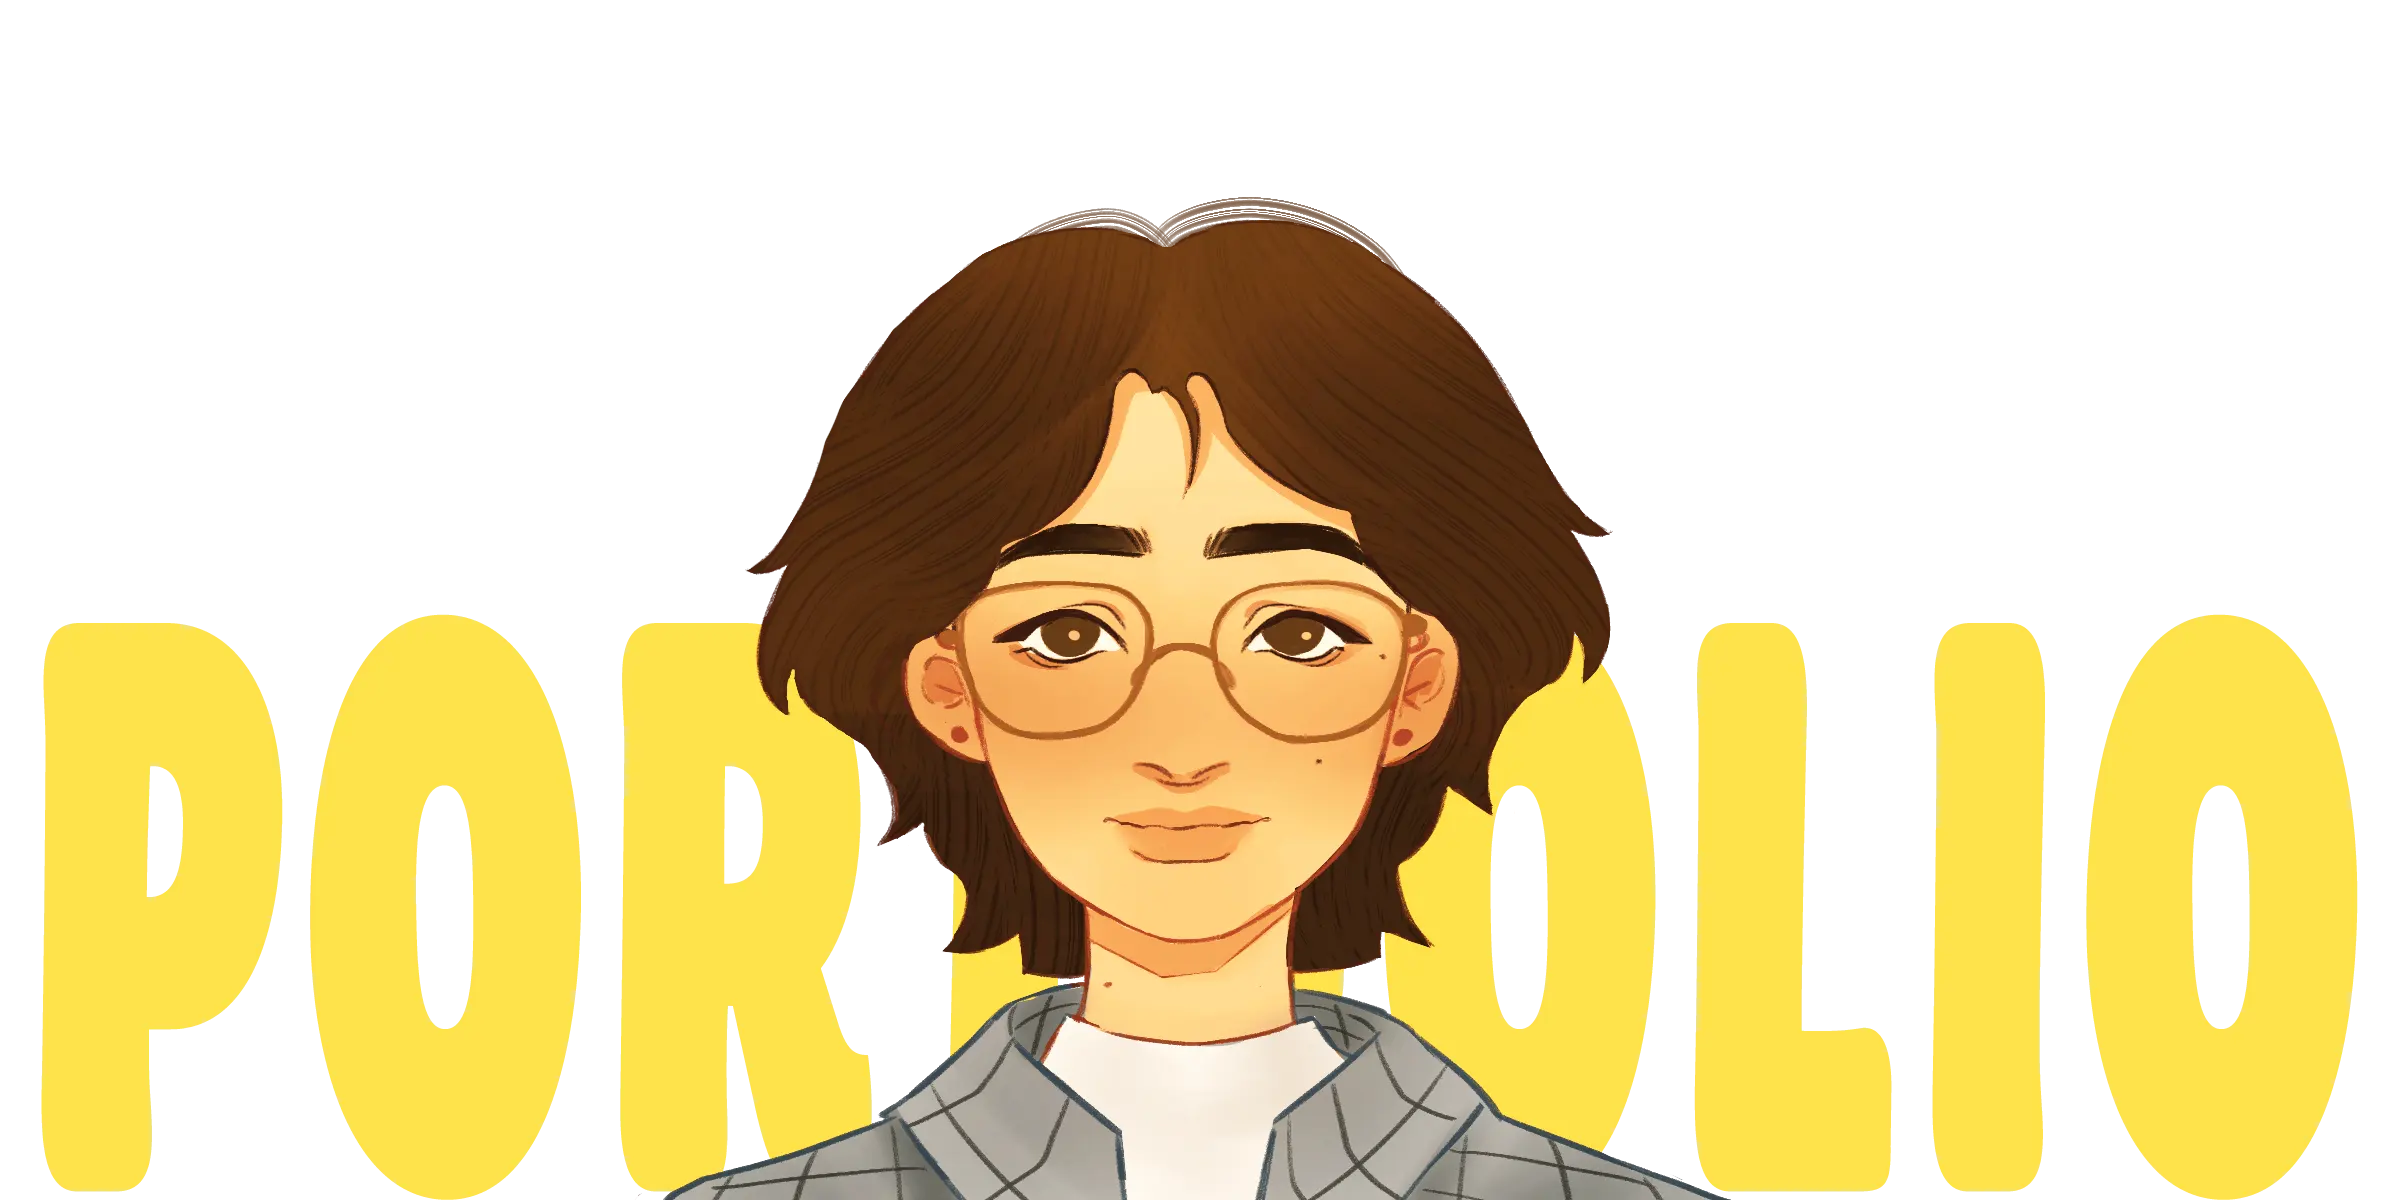
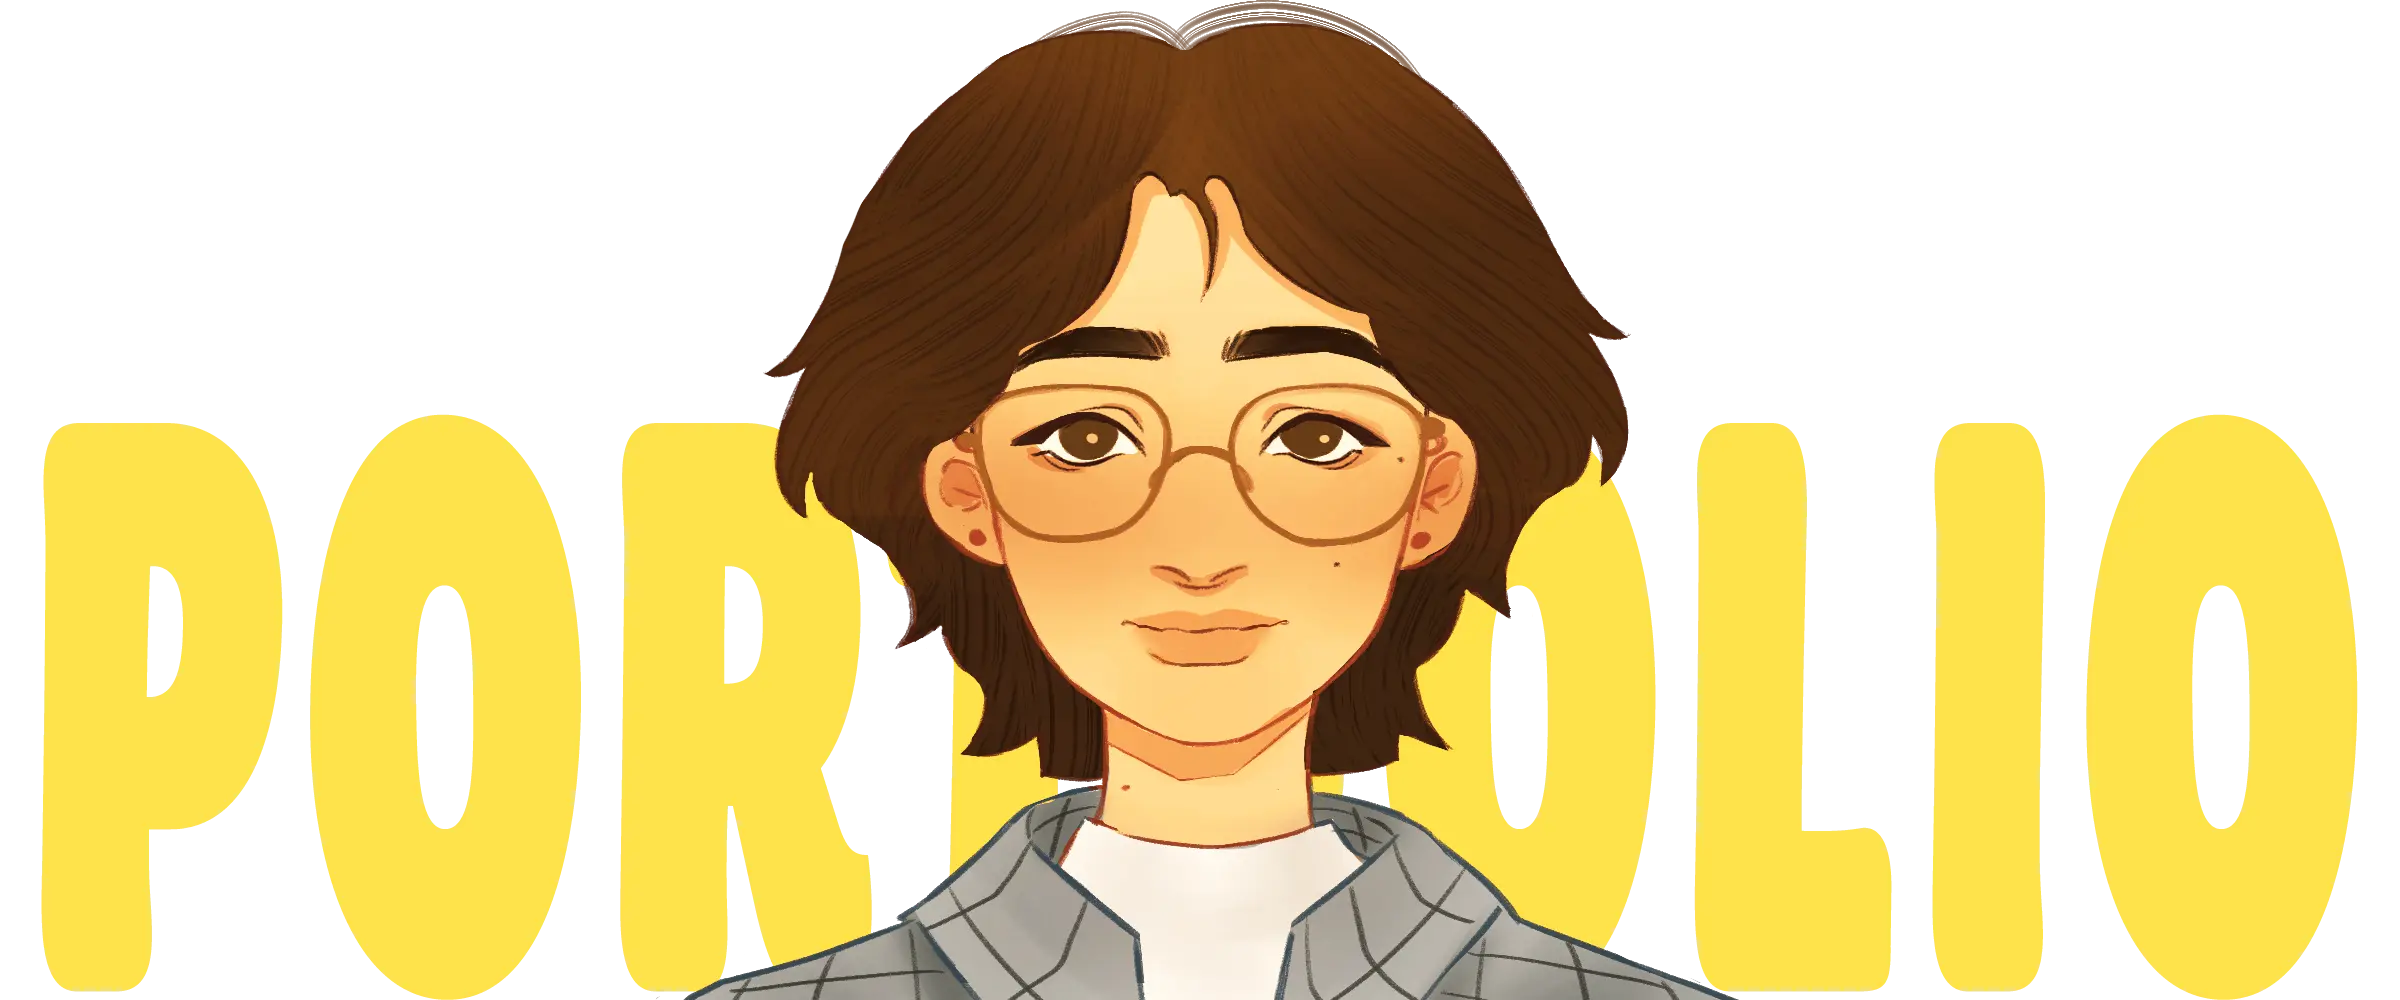
frontpage css fixed

diff --git a/style.css b/style.css
@@ -1,3 +1,4 @@
+/*GENERAL STUFF*/
 img {
   width: auto;
   width: 100%;
@@ -9,6 +10,7 @@ body {
   background-image: url(svg/grid.svg);
 }
 
+/*BURGERMENU AND HEADER*/
 header {
   padding: 10px 20px;
   display: flex;
@@ -41,7 +43,7 @@ header {
   text-decoration: none;
   color: black;
   font-family: "Sue Ellen Francisco", cursive;
-  font-size: 1.7rem;
+  font-size: 20px;
   margin-right: 65px;
 }
 
@@ -84,6 +86,51 @@ header {
   font-family: "Sue Ellen Francisco", cursive;
   color: #000000;
   font-size: 28px;
+}
+
+.nav_image {
+  display: flex;
+  flex-direction: column;
+  justify-content: space-between;
+  align-items: center;
+  border: 2px solid rgb(51, 38, 22);
+  background-color: white;
+  padding: 20px;
+  width: 70%;
+  margin-right: auto;
+  margin-left: auto;
+  font-size: 20px;
+  text-align: center;
+}
+
+.nav_image a {
+  text-decoration: none;
+  font-family: "Sue Ellen Francisco", cursive;
+  margin-top: auto;
+  margin-bottom: 0;
+}
+
+.nav_image h3 {
+  color: #000000;
+  margin: 0;
+}
+
+@media only screen and (min-width: 768px) {
+  /*FRONTPAGE*/
+  .frontpage_me {
+    display: block;
+    margin-left: auto;
+    margin-right: auto;
+    width: 59%;
+  }
+
+  .navigation_images {
+    display: flex;
+    justify-content: space-around;
+    width: 40%;
+    margin-left: auto;
+    margin-right: auto;
+  }
 }
 
 @media only screen and (max-width: 768px) {

diff --git a/index.html b/index.html
@@ -43,6 +43,35 @@
         </ul>
     </div>
 
+    <div class="frontpage_me">
+        <img src="img/portfolio_me_img.webp" alt="frontpage_me">
+    </div>
+
+    <div class="navigation_images">
+        <div class="nav_image">
+            <a href="om_mig.html">
+                <img src="svg/om_migg.svg" alt="om_mig_svg">
+                <h3>OM MIG</h3>
+            </a>
+        </div>
+
+        <div class="nav_image">
+            <a href="portfolio.html">
+                <img src="svg/portfolioo.svg" alt="portfolio_svg">
+                <h3>PORTFOLIO</h3>
+            </a>
+
+        </div>
+
+        <div class="nav_image">
+            <a href="kontakt.html">
+                <img src="svg/phone_contact.svg" alt="kontakt_svg">
+                <h3>KONTAKT</h3>
+            </a>
+        </div>
+    </div>
+
+
 
 
 
